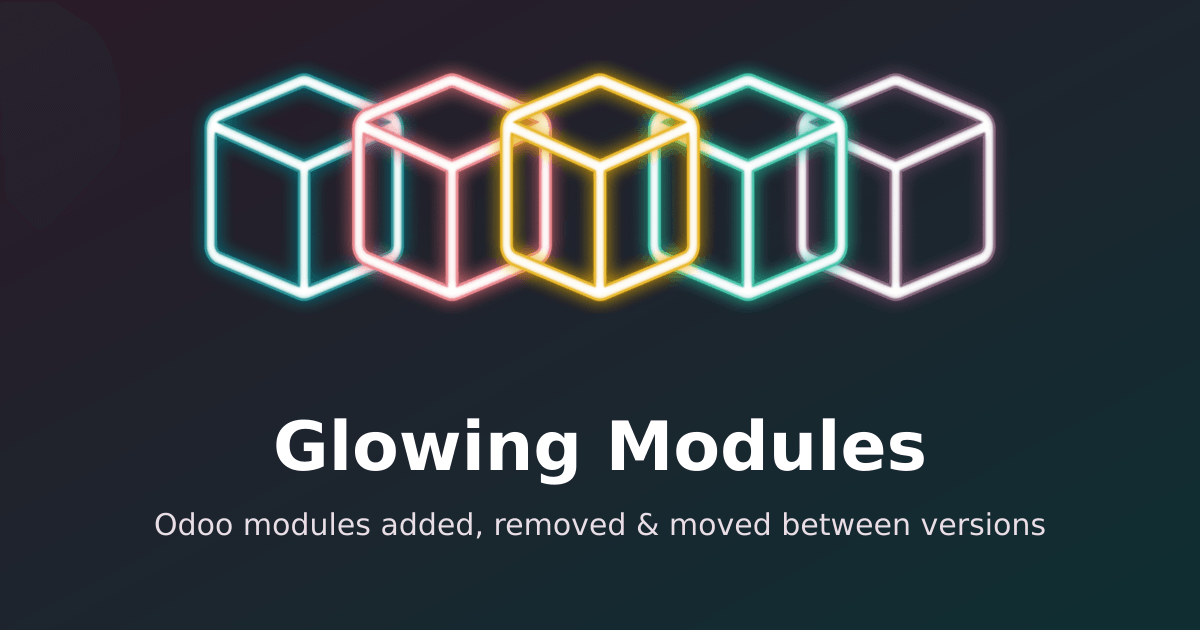
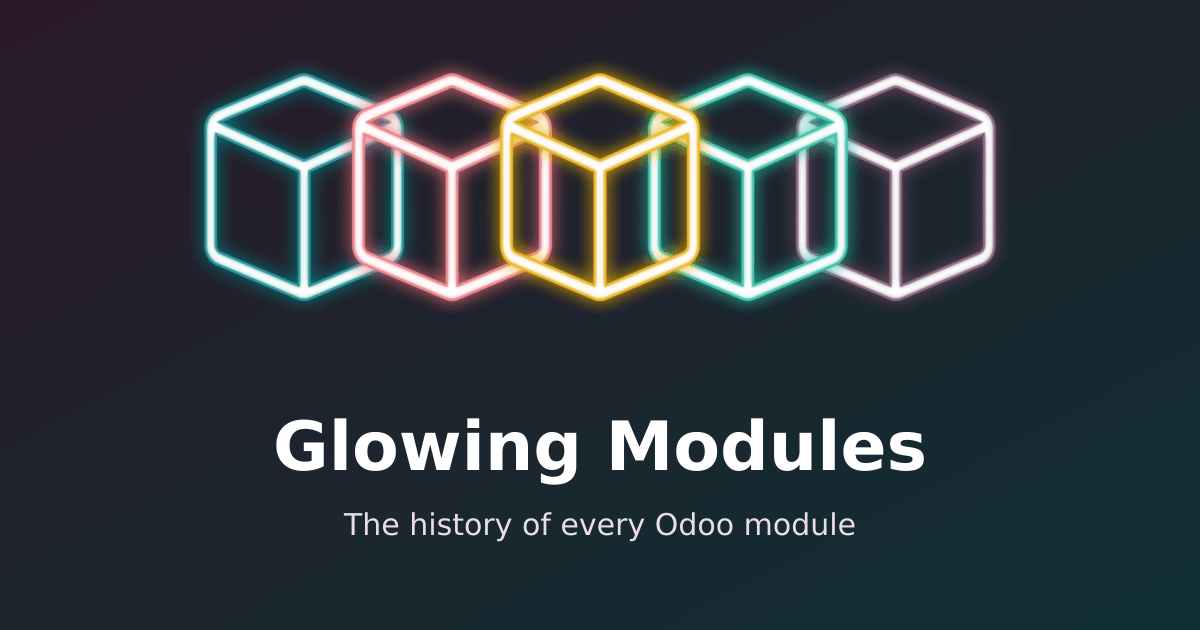
[IMP] ui: "The history of every Odoo module" tagline and "Glowing" short name
The new tagline replaces the previous descriptions in the header, page
title, meta and Open Graph tags, the social preview image, the web app
manifest, package.json and the README.

"Glowing" is the short name: the browser tab title of a comparison, the
installed app (manifest short_name) and the header on phones, where
" Modules" is visually hidden but still read by screen readers.

The JSON-LD now describes a WebSite with its name, URL, description and
author; the software-app fields (category, operating system, free offer)
only served search rich results and are dropped.

Changed region(s): [[0.1233, 0.8143, 0.8633, 0.8746]]

diff --git a/index.html b/index.html
@@ -3,7 +3,7 @@
     <head>
         <meta charset="UTF-8">
         <meta name="viewport" content="width=device-width, initial-scale=1">
-        <title>Glowing Modules · Odoo modules history across versions</title>
+        <title>Glowing Modules · The history of every Odoo module</title>
         <meta name="description" content="Compare Odoo versions, from 5.0 to master, and see which modules were added, removed or moved in Community, Enterprise, Themes and Industry.">
         <meta name="author" content="Gaëtan Vanden Bergh">
         <meta name="referrer" content="strict-origin-when-cross-origin">
@@ -19,26 +19,25 @@
 
         <meta property="og:type" content="website">
         <meta property="og:site_name" content="Glowing Modules">
-        <meta property="og:title" content="Glowing Modules · Odoo modules history across versions">
-        <meta property="og:description" content="Compare Odoo versions, from 5.0 to master, and see which modules were added, removed or moved in Community, Enterprise, Themes and Industry.">
+        <meta property="og:title" content="Glowing Modules · The history of every Odoo module">
+        <meta
+            property="og:description"
+            content="The history of every Odoo module: compare Odoo versions, from 5.0 to master, and see which modules were added, removed or moved in Community, Enterprise, Themes and Industry."
+        >
         <meta property="og:url" content="https://mrsweeter.github.io/glowing-modules/">
         <meta property="og:image" content="https://mrsweeter.github.io/glowing-modules/og-image.png">
         <meta property="og:image:width" content="1200">
         <meta property="og:image:height" content="630">
-        <meta property="og:image:alt" content="Glowing Modules logo: five neon cubes">
+        <meta property="og:image:alt" content="Glowing Modules logo: five neon cubes. The history of every Odoo module">
         <meta name="twitter:card" content="summary_large_image">
 
         <script type="application/ld+json">
             {
                 "@context": "https://schema.org",
-                "@type": "WebApplication",
+                "@type": "WebSite",
                 "name": "Glowing Modules",
                 "url": "https://mrsweeter.github.io/glowing-modules/",
-                "description": "Compare Odoo versions and see which modules were added, removed or moved.",
-                "applicationCategory": "DeveloperApplication",
-                "operatingSystem": "Any",
-                "isAccessibleForFree": true,
-                "offers": { "@type": "Offer", "price": "0", "priceCurrency": "EUR" },
+                "description": "The history of every Odoo module: compare Odoo versions and see which modules were added, removed or moved.",
                 "author": { "@type": "Person", "name": "Gaëtan Vanden Bergh" }
             }
         </script>
@@ -55,8 +54,8 @@
                 <a class="gm-header__brand" href="./">
                     <img class="gm-header__logo" src="/logo.webp" width="117" height="36" alt="">
                     <div>
-                        <h1 class="gm-header__title">Glowing Modules</h1>
-                        <p class="gm-header__tagline">Odoo modules added, removed and moved between versions</p>
+                        <h1 class="gm-header__title">Glowing<span class="gm-header__title-rest"> Modules</span></h1>
+                        <p class="gm-header__tagline">The history of every Odoo module</p>
                     </div>
                 </a>
 

diff --git a/src/main.js b/src/main.js
@@ -263,7 +263,7 @@ function render(state) {
     });
     renderControls(state, { view });
     renderResults(view, { model: data.model, tab: state.tab, onTab: (tab) => store.set({ tab }) });
-    document.title = `${state.from ? `${state.from} → ` : ''}${state.to} · Glowing Modules`;
+    document.title = `${state.from ? `${state.from} → ` : ''}${state.to} · Glowing`;
 }
 
 // ─── Events ─────────────────────────────────────────────────────────────────────────────────────

diff --git a/tests/e2e/app.spec.js b/tests/e2e/app.spec.js
@@ -11,7 +11,7 @@ test.describe('comparison', () => {
         await expect(page.locator('[data-role="to"]')).toHaveText('18.0');
         await expect(page.locator('#summary')).toContainText('+2 / −1');
         await expect(page).toHaveURL(/\/glowing-modules\/$/);
-        await expect(page).toHaveTitle('17.0 → 18.0 · Glowing Modules');
+        await expect(page).toHaveTitle('17.0 → 18.0 · Glowing');
         expect(data.requests.remote).toBe(1);
         expect(consoleErrors).toEqual([]);
     });

diff --git a/src/styles/layout/_header.scss b/src/styles/layout/_header.scss
@@ -45,6 +45,13 @@
         white-space: nowrap;
     }
 
+    // Phones show the short form "Glowing"; screen readers still get the full name.
+    &__title-rest {
+        @include mq-down(sm) {
+            @include visually-hidden;
+        }
+    }
+
     &__tagline {
         display: none;
         font-size: 0.8125rem;

diff --git a/README.md b/README.md
@@ -2,6 +2,8 @@
 
 # Glowing Modules
 
+_The history of every Odoo module._
+
 **See which Odoo modules were added, removed or moved between any two Odoo versions**, from 5.0 to `master`,
 across `odoo/odoo` (Community), `odoo/enterprise`, `odoo/design-themes` and `odoo/industry`.
 
